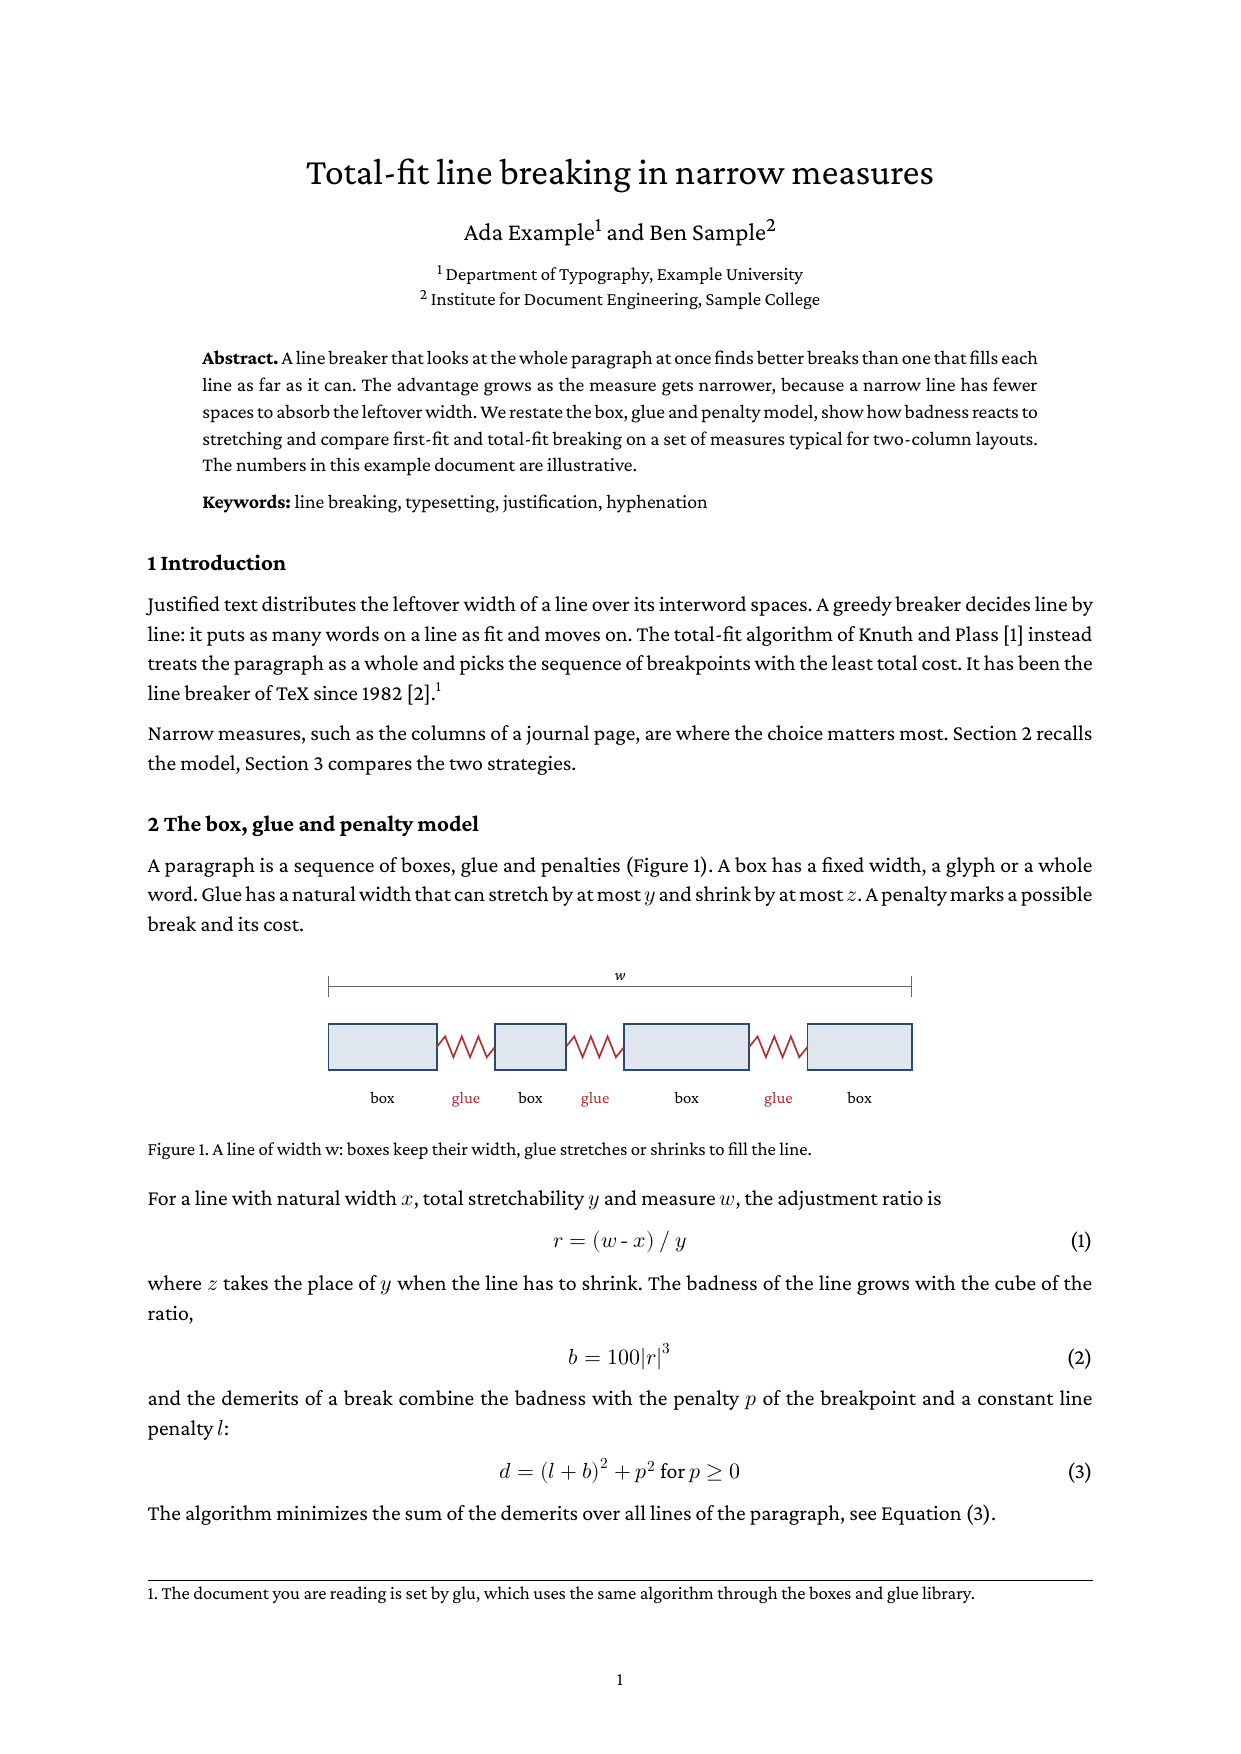
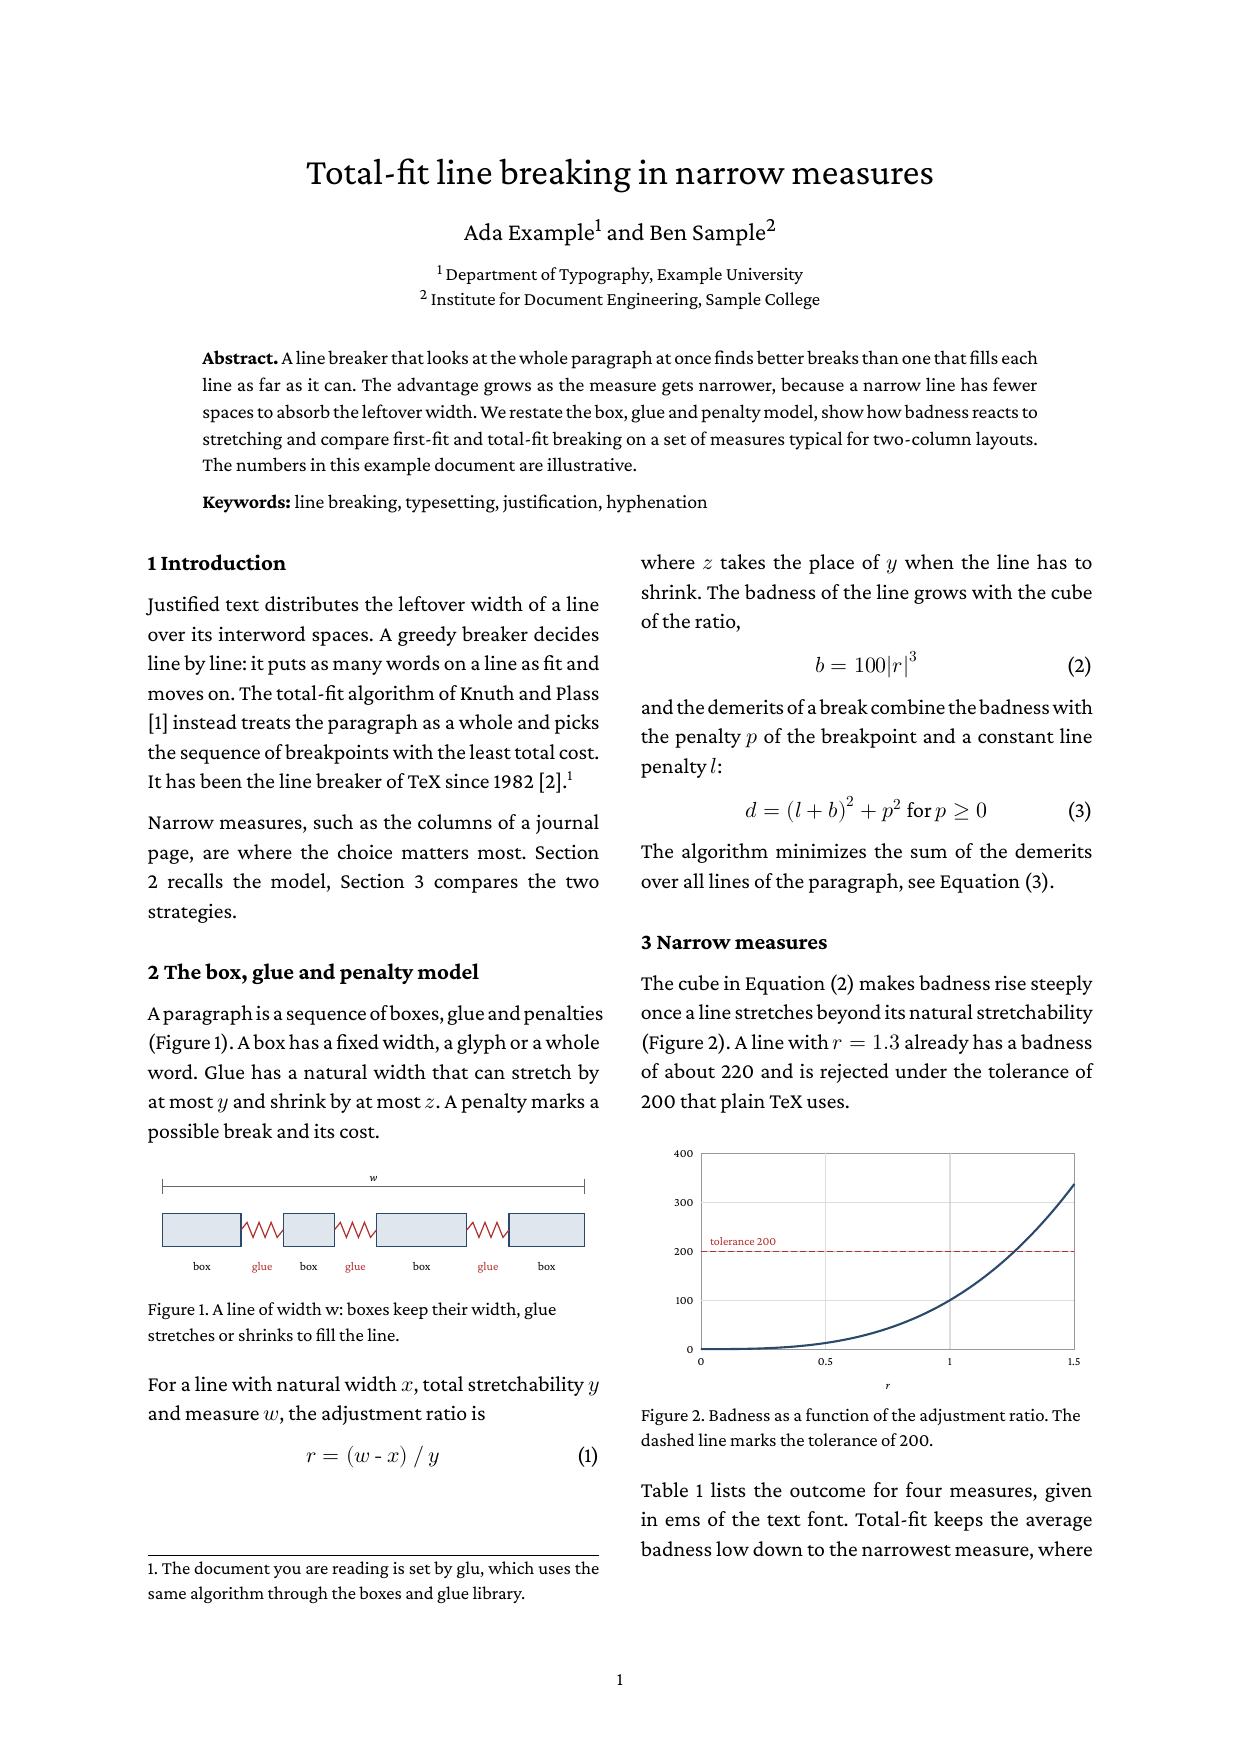
Set the scientific paper in two columns
A fenced div around everything after the abstract carries
column-count: 2; the title block and the abstract span both columns,
and the columns of the last page are balanced. The figures scale to
the column width, the table has shorter headings, and its caption
keeps with it.

diff --git a/glu/markdown/scientific-paper/scientific-paper.css b/glu/markdown/scientific-paper/scientific-paper.css
@@ -55,6 +55,16 @@ h1 {
 }
 .abstract p { margin: 0 0 0.5em 0; }
 
+/* Everything after the abstract is set in two columns; the title block
+   and the abstract, siblings of this div, span both. The columns of the
+   last page are balanced. */
+.paper-body {
+  column-count: 2;
+  column-gap: 7mm;
+}
+/* The first heading starts level with the top of the second column. */
+.paper-body > h2:first-child { margin-top: 0; }
+
 /* Numbered sections */
 h2 {
   font-size: 11pt;
@@ -69,6 +79,7 @@ h2.unnumbered::before { content: none; }
 p { margin: 0 0 0.5em 0; }
 
 /* Figures and tables, numbered by counters */
+figure img { max-width: 100%; }
 figure {
   margin: 1em 0;
   counter-increment: figure;
@@ -90,6 +101,7 @@ p.table-caption {
   font-size: 9pt;
   margin: 1em 0 0.4em 0;
   counter-increment: table;
+  break-after: avoid;
 }
 p.table-caption::before {
   content: "Table " counter(table) ". ";
@@ -103,7 +115,7 @@ table {
   font-size: 9pt;
 }
 thead th { border-bottom: 0.6pt solid black; }
-th, td { padding: 2pt 6pt; text-align: right; }
+th, td { padding: 2pt 5pt; text-align: right; hyphens: manual; }
 th:first-child, td:first-child { text-align: left; }
 
 /* Display equations: centered, number at the right margin */

diff --git a/glu/markdown/scientific-paper/Readme.md b/glu/markdown/scientific-paper/Readme.md
@@ -1,9 +1,10 @@
 # Scientific paper
 
-A short journal-style article written in Markdown: title block with
-authors and affiliations, an abstract, numbered sections, inline and
-numbered display equations, two figures, a table, a footnote, cross
-references and a hand-made list of references.
+A short journal-style article written in Markdown and set in two
+columns: title block with authors and affiliations and an abstract
+across both columns, then numbered sections, inline and numbered
+display equations, two figures, a table, a footnote, cross references
+and a hand-made list of references.
 
 ![first page of result.pdf](firstpage.png)
 
@@ -14,6 +15,23 @@ glu scientific-paper.md
 ```
 
 ## How it is built
+
+- **Two columns** come from a fenced div around everything after the
+  abstract, with `column-count: 2`. The title block and the abstract
+  are its siblings and span both columns; the columns of the last page
+  are balanced.
+
+  ```markdown
+  ::: {.paper-body}
+  ## Introduction {#sec-intro}
+  ...
+  :::
+  ```
+
+  ```css
+  .paper-body { column-count: 2; column-gap: 7mm; }
+  figure img { max-width: 100%; }
+  ```
 
 - **Formulas** use TeX dollar syntax (`math: true` in the frontmatter)
   and the Latin Modern Math font.
@@ -51,7 +69,7 @@ glu scientific-paper.md
   (`position: running(runningtitle)`), switched off on the first page
   with `@page :first`.
 - **The footnote** is a Markdown footnote (`[^impl]`), set at the foot
-  of its page.
+  of its column.
 - **References** are an ordered list with an id per entry; citations
   link to them.
 
@@ -60,6 +78,10 @@ as SVG text without a font family is not rendered.
 
 ## Not yet
 
-This example is the single-column starting point for a two-column
-layout. The table caption is a paragraph, as `<caption>` is not
-rendered yet.
+The table caption is a paragraph, as `<caption>` is not rendered yet
+([htmlbag#90](https://github.com/boxesandglue/htmlbag/issues/90)).
+The cross references are not clickable
+([htmlbag#94](https://github.com/boxesandglue/htmlbag/issues/94)),
+and the document is not tagged as PDF/UA-2 until
+[htmlbag#92](https://github.com/boxesandglue/htmlbag/issues/92) and
+[#93](https://github.com/boxesandglue/htmlbag/issues/93) are fixed.

diff --git a/glu/markdown/scientific-paper/scientific-paper.md b/glu/markdown/scientific-paper/scientific-paper.md
@@ -32,6 +32,8 @@ are illustrative.
 **Keywords:** line breaking, typesetting, justification, hyphenation
 :::
 
+::: {.paper-body}
+
 ## Introduction {#sec-intro}
 
 Justified text distributes the leftover width of a line over its
@@ -104,19 +106,19 @@ measures, given in ems of the text font. Total-fit keeps the average
 badness low down to the narrowest measure, where first-fit leaves
 loose lines that a reader notices as rivers of white space.
 
-<p class="table-caption" id="tab-results">Average badness and loose
-lines (b > 200) per 100 lines, first-fit against total-fit.
+<p class="table-caption" id="tab-results">Average badness b and loose
+lines (b > 200) per 100 lines, first-fit (FF) against total-fit (TF).
 Illustrative values.</p>
 
 <table>
 <thead>
-<tr><th>Measure</th><th>First-fit b</th><th>Total-fit b</th><th>First-fit loose</th><th>Total-fit loose</th></tr>
+<tr><th>Measure</th><th>FF b</th><th>TF b</th><th>FF loose</th><th>TF loose</th></tr>
 </thead>
 <tbody>
-<tr><td>35 em</td><td>18</td><td>9</td><td>1</td><td>0</td></tr>
-<tr><td>28 em</td><td>31</td><td>14</td><td>3</td><td>0</td></tr>
-<tr><td>22 em</td><td>57</td><td>23</td><td>8</td><td>1</td></tr>
-<tr><td>16 em</td><td>112</td><td>41</td><td>19</td><td>4</td></tr>
+<tr><td>35&nbsp;em</td><td>18</td><td>9</td><td>1</td><td>0</td></tr>
+<tr><td>28&nbsp;em</td><td>31</td><td>14</td><td>3</td><td>0</td></tr>
+<tr><td>22&nbsp;em</td><td>57</td><td>23</td><td>8</td><td>1</td></tr>
+<tr><td>16&nbsp;em</td><td>112</td><td>41</td><td>19</td><td>4</td></tr>
 </tbody>
 </table>
 
@@ -143,3 +145,5 @@ columns.
 <li id="ref-plass">M. F. Plass. <i>Optimal Pagination Techniques for Automatic Typesetting Systems</i>. PhD thesis, Stanford University, 1981.</li>
 <li id="ref-css-multicol">W3C. <i>CSS Multi-column Layout Module Level 1</i>. W3C Candidate Recommendation.</li>
 </ol>
+
+:::
